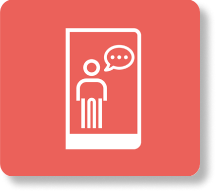
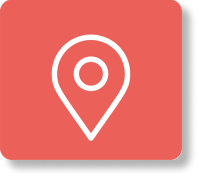
2025/10/12

Changed region(s): [[0.2424, 0.142, 0.6667, 0.7955], [0.0, 0.0284, 0.9394, 0.9375], [0.8788, 0.0, 0.9091, 0.0284]]

diff --git a/index.html b/index.html
@@ -711,7 +711,7 @@
           </div>
           <div class="icon_btn4">
             <div class="icon"></div>
-            <div class="name zh-TW-show">餐廳</div>
+            <div class="name zh-TW-show">餐飲</div>
             <div class="name en-show">Food and<br>
               Beverage</div>
           </div>
@@ -722,8 +722,8 @@
           </div>
           <div class="icon_btn6">
             <div class="icon"></div>
-            <div class="name zh-TW-show">導覽機</div>
-            <div class="name en-show">Interactive<br />Kiosk</div>
+            <div class="name zh-TW-show">現在位置</div>
+            <div class="name en-show">You are<br />here</div>
           </div>
           <div class="icon_btn7">
             <div class="icon"></div>

diff --git a/css/floor.css b/css/floor.css
@@ -568,7 +568,7 @@ body.enBody .icon_list>.icon_btn5 {
 }
 
 body.enBody .icon_list>.icon_btn6 {
-  left: 703px;
+  left: 713px;
   top: 340px;
 }
 
